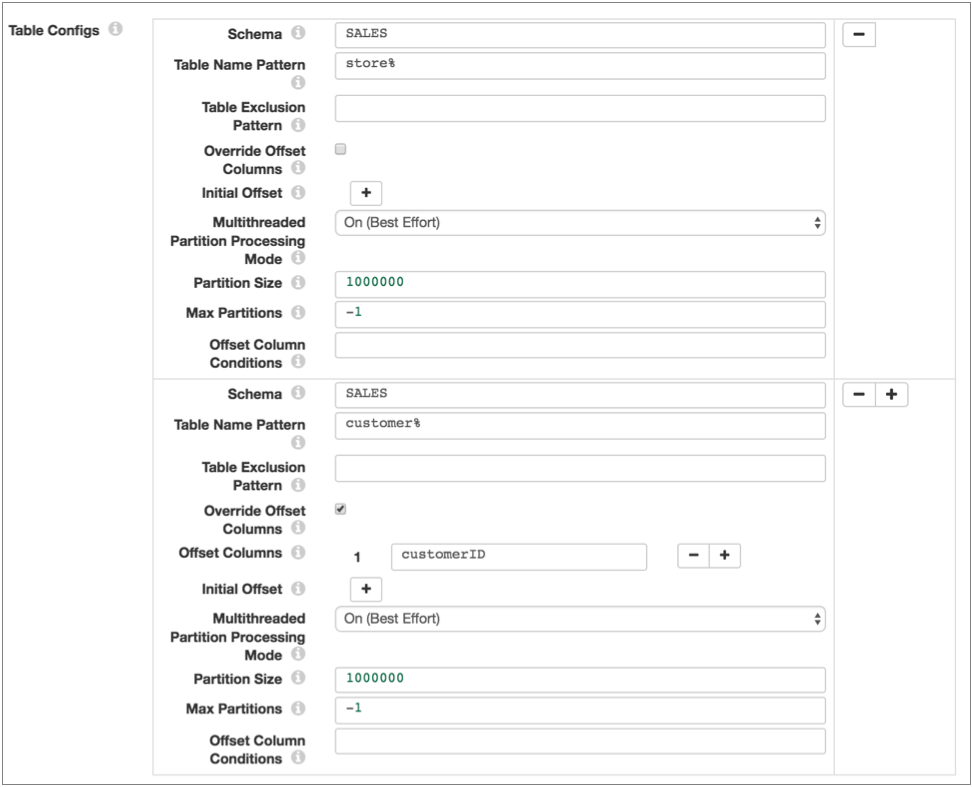
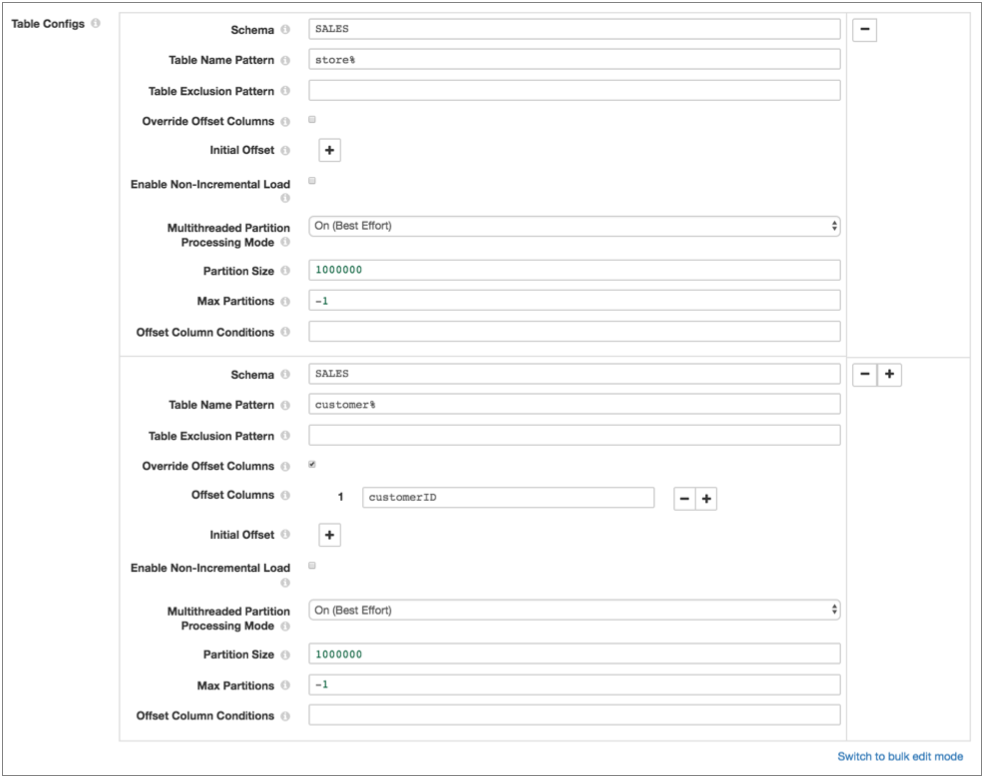
DOC-995, DOC-1031, JDBC Multable non-incremental mode, Oracle name update, googleanalytics files

diff --git a/docs/src/main/misc/googleAnalytics_pdesigner.html b/docs/src/main/misc/googleAnalytics_pdesigner.html
@@ -1,0 +1,11 @@
+<!-- script for DPM -->
+<script>
+  (function(i,s,o,g,r,a,m){i['GoogleAnalyticsObject']=r;i[r]=i[r]||function(){
+  (i[r].q=i[r].q||[]).push(arguments)},i[r].l=1*new Date();a=s.createElement(o),
+  m=s.getElementsByTagName(o)[0];a.async=1;a.src=g;m.parentNode.insertBefore(a,m)
+  })(window,document,'script','https://www.google-analytics.com/analytics.js','ga');
+
+  ga('create', 'UA-60917135-7', 'auto');
+  ga('send', 'pageview');
+</script>
+
